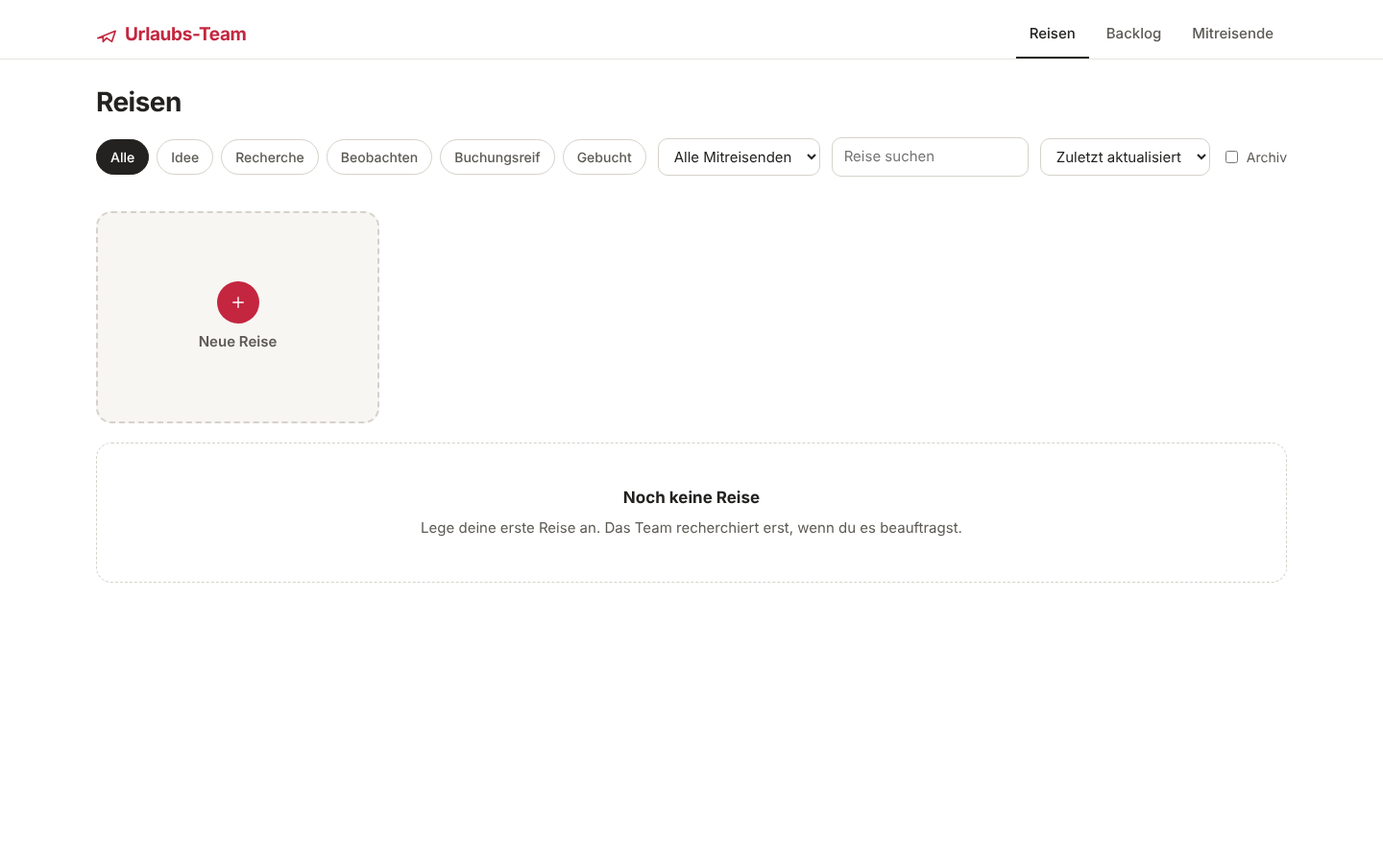
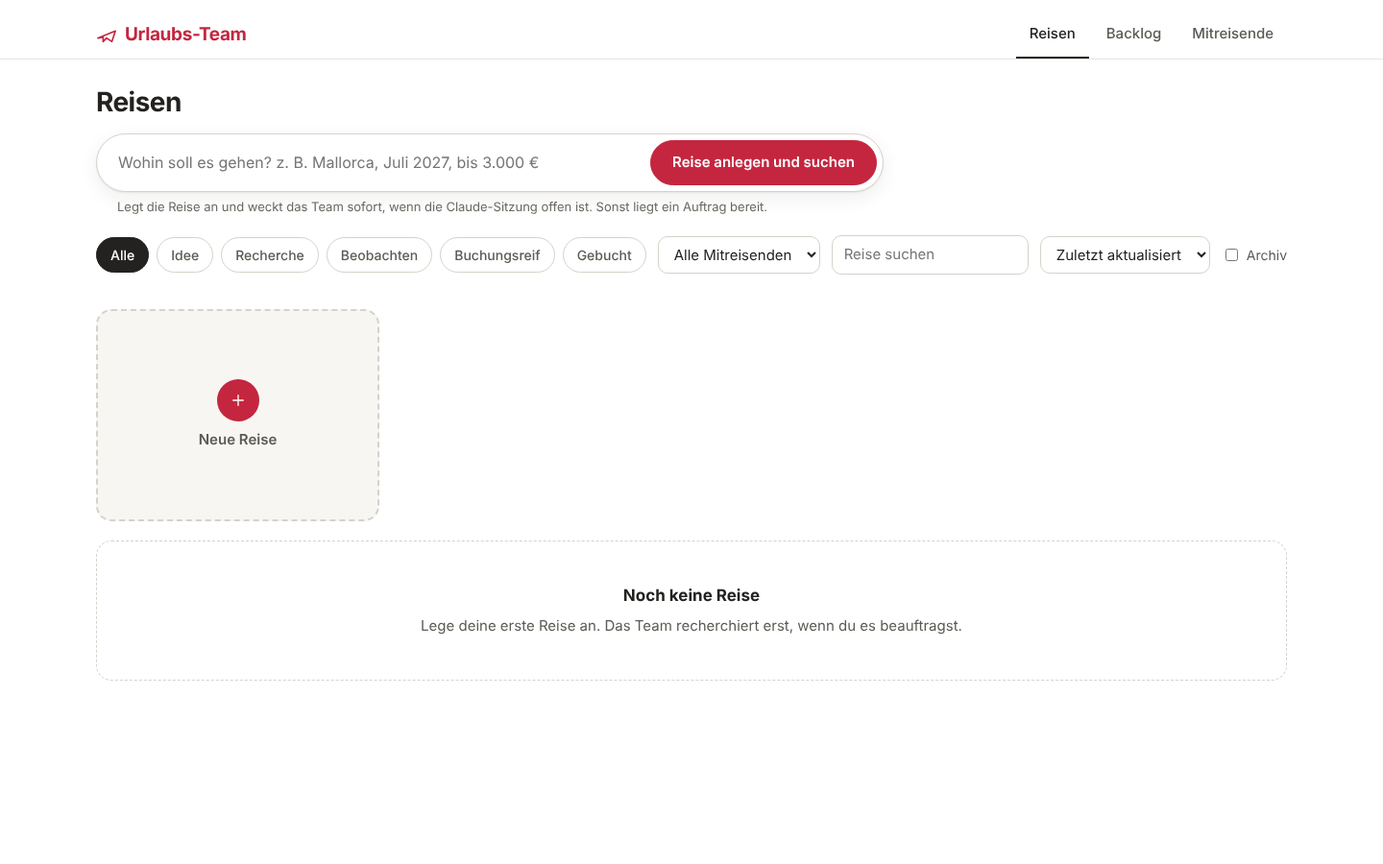
Suchleiste und Jetzt suchen: Reise anlegen, Auftrag ablegen, Claude per Kommentar wecken; Tests, Doku, Bericht
Claude-Session: https://claude.ai/code/session_01Pwzh8WGPLphNjk4CJM5VfV

diff --git a/app/urlaubs-team.html b/app/urlaubs-team.html
@@ -66,6 +66,14 @@ main { padding-top: 28px; }
 .field-s { padding: 8px 12px; border: 1px solid var(--line-2); border-radius: var(--r-s); background: var(--bg); min-width: 0; }
 .filters .grow { flex: 1 1 200px; }
 
+/* Suchleiste */
+.sbar { display: flex; align-items: center; gap: 8px; margin: 16px 0 4px; padding: 6px 6px 6px 22px; border: 1px solid var(--line-2); border-radius: 999px; background: var(--bg); box-shadow: var(--shadow); max-width: 820px; }
+.sbar:focus-within { border-color: var(--accent); }
+.sbar input { flex: 1; min-width: 0; border: 0; outline: none; background: none; font-size: 16px; padding: 10px 0; }
+.sbar .btn { border-radius: 999px; padding: 11px 22px; white-space: nowrap; }
+.sbar .short { display: none; }
+@media (max-width: 560px) { .sbar { padding-left: 16px; } .sbar .long { display: none; } .sbar .short { display: inline; } .sbar .btn { padding: 10px 16px; } }
+
 /* Kacheln */
 .grid { display: grid; grid-template-columns: repeat(auto-fill, minmax(min(100%, 270px), 1fr)); gap: 28px 20px; }
 .card { position: relative; display: flex; flex-direction: column; min-width: 0; border-radius: var(--r); background: var(--bg); text-align: left; padding: 0; border: 0; transition: transform .18s ease; }
@@ -292,7 +300,30 @@ async function savePlan(p, was) {
   }, 'Reiseplan speichern');
 }
 async function auftrag(art, text, tid) {
-  await guard(async () => { await db.collection('auftraege').add({ trip: tid || null, art, text: text || '', status: 'offen', datum: jetzt(), wer: S.who }); }, 'Auftrag ablegen');
+  const r = await guard(async () => { await db.collection('auftraege').add({ trip: tid || null, art, text: text || '', status: 'offen', datum: jetzt(), wer: S.who }); return true; }, 'Auftrag ablegen');
+  return r === true;
+}
+/* Weckt die Claude-Sitzung über einen Kommentar „an Claude“. Geht nur für Bearbeiter und solange eine Sitzung die App beobachtet. */
+async function wecke(text) {
+  try {
+    const cm = await claude.use('comments'); if (!cm) return false;
+    if ((await cm.canSendToClaude()) !== 'available') return false;
+    const anchor = await cm.anchorFor($('#main'));
+    await cm.sendToClaude({ anchor, text: String(text).slice(0, 900) }); return true;
+  } catch { return false; }
+}
+async function startSuche(tid, titel, text, art) {
+  const woke = wecke(`Jetzt suchen: „${titel}“ (Reise-ID ${tid}, Auftrag ${art || 'suche'}). ${text || ''}`);
+  const ok = await auftrag(art || 'suche', text, tid);
+  const w = await woke;
+  if (!ok) return;
+  toast(w ? 'Suche gestartet. Das Team legt die Ergebnisse in dieser Reise ab.' : 'Auftrag liegt bereit. Sag im Chat: „' + (art === 'optimieren' ? 'Optimiere ' : 'Suche für ') + titel + '“.');
+}
+function parseWunsch(text) {
+  const bm = text.match(/(\d{1,3}(?:[.\s]\d{3})+|\d+)\s*(?:€|eur\b|euro\b)/i);
+  const jahr = (text.match(/\b(20\d\d)\b/) || [])[1];
+  const ziel = text.split(/[,;]/)[0].trim().slice(0, 60);
+  return { ziel, titel: (ziel + (jahr && !ziel.includes(jahr) ? ' ' + jahr : '')).slice(0, 80), budget: bm ? Number(bm[1].replace(/[.\s]/g, '')) : null };
 }
 
 /* ---------- Rendern (Shell einmal, danach nur die dynamischen Bereiche) ---------- */
@@ -318,6 +349,7 @@ const VIEWS = {};
 VIEWS.reisen = {
   shell() {
     return `<div class="row"><h1>Reisen</h1><div class="sp"></div></div>
+    ${S.rw ? `<form id="sb" class="sbar" role="search"><input id="sb-t" data-live="1" type="text" autocomplete="off" placeholder="Wohin soll es gehen? z. B. Mallorca, Juli 2027, bis 3.000 €" aria-label="Reisewunsch eingeben und direkt suchen" maxlength="300"><button id="sb-go" class="btn primary" type="submit"><span class="long">Reise anlegen und suchen</span><span class="short">Suchen</span></button></form><p class="hint" style="margin:6px 0 0 22px">Legt die Reise an und weckt das Team sofort, wenn die Claude-Sitzung offen ist. Sonst liegt ein Auftrag bereit.</p>` : ''}
     <div class="filters">
       <div class="chips" id="f-status"></div>
       <select class="field-s" id="f-person" data-live="1" aria-label="Nach Mitreisenden filtern"></select>
@@ -346,7 +378,7 @@ function card(t) {
   const ziel = (t.ziel && t.ziel.text) || (t.ziel && t.ziel.modus === 'offen' ? 'Ziel offen' : '');
   const zr = t.zeitraum && t.zeitraum.fruehester_start ? `${dat(t.zeitraum.fruehester_start, true)} – ${dat(t.zeitraum.spaetester_rueckflug, true) || ''}` : 'Zeitraum offen';
   const preis = p.cur ? `<span class="price">ab ${eur(p.cur.preis_pp)} <small>p. P.${p.cur.preis_gesamt ? ' · ' + eur(p.cur.preis_gesamt) + ' gesamt' : ''}${p.cur.unsicher ? ' · Richtwert' : ''}</small></span><span class="row" style="gap:8px;flex-wrap:nowrap">${p.trend ? `<span class="trend ${p.trend}" title="seit letztem Check">${p.trend === 'down' ? '↓ ' + eur(Math.abs(p.diff)) : p.trend === 'up' ? '↑ ' + eur(p.diff) : '→ gleich'}</span>` : ''}${spark(p.series)}</span>` : '<span class="meta">Noch kein Preis</span>';
-  const menu = S.menu === t.id ? `<div class="menu" role="menu"><button data-act="open" data-id="${t.id}">Öffnen</button>${S.rw ? `<button data-act="optimieren" data-id="${t.id}">Optimieren</button><button data-act="dup" data-id="${t.id}">Duplizieren</button><button data-act="archiv" data-id="${t.id}">${t.archiviert ? 'Wiederherstellen' : 'Archivieren'}</button>` : ''}</div>` : '';
+  const menu = S.menu === t.id ? `<div class="menu" role="menu"><button data-act="open" data-id="${t.id}">Öffnen</button>${S.rw ? `<button data-act="suche" data-id="${t.id}">Jetzt suchen</button><button data-act="optimieren" data-id="${t.id}">Optimieren</button><button data-act="dup" data-id="${t.id}">Duplizieren</button><button data-act="archiv" data-id="${t.id}">${t.archiviert ? 'Wiederherstellen' : 'Archivieren'}</button>` : ''}</div>` : '';
   return `<div class="card"><div class="img" style="background:${GRADS[idx]}">${t.bild ? `<img src="${esc(t.bild)}" alt="">` : emoji}</div><span class="badge s-${esc(t.status)}">${esc(t.status)}</span><button class="kebab" data-act="menu" data-id="${t.id}" aria-label="Menü für ${esc(t.titel)}" aria-haspopup="true">${ico(I.dots)}</button>${menu}
   <button class="open-card" data-act="open" data-id="${t.id}"><div class="c-title">${esc(t.titel)}</div><div class="c-sub">${esc(ziel)}${ziel ? ' · ' : ''}${esc(zr)}</div>
   <div class="c-row">${avatars(t.mitreisende)}${preis}</div><div class="meta" style="margin-top:6px">${p.last ? 'Letzter Check ' + dat(p.last) : 'Noch kein Check'}</div></button></div>`;
@@ -363,7 +395,7 @@ const DETAIL = {
     <div class="hero"><div class="img" style="background:${GRADS[idx]}">${emoji}</div><div class="txt"><div class="row"><span class="status ${t.status === 'Beobachten' ? 'warn' : t.status === 'Buchungsreif' || t.status === 'Gebucht' ? 'ok' : t.status === 'Recherche' ? 'info' : ''}">${esc(t.status)}</span>${t.archiviert ? '<span class="status">Archiviert</span>' : ''}</div><h1>${esc(t.titel)}</h1>
     <div class="row">${avatars(t.mitreisende)}<span class="c-sub">${esc((t.ziel && t.ziel.text) || 'Ziel offen')} · ${t.zeitraum && t.zeitraum.fruehester_start ? dat(t.zeitraum.fruehester_start) + ' bis ' + dat(t.zeitraum.spaetester_rueckflug) : 'Zeitraum offen'}</span></div>
     ${p.cur ? `<div class="row"><span class="price">ab ${eur(p.cur.preis_pp)} <small>pro Person${p.cur.unsicher ? ' · Richtwert' : ''}</small></span>${p.trend ? `<span class="trend ${p.trend}">${p.trend === 'down' ? '↓' : p.trend === 'up' ? '↑' : '→'} ${eur(Math.abs(p.diff))}</span>` : ''}<span class="meta">Stand ${dat(p.last)}</span></div>` : ''}</div>
-    ${S.rw ? `<div class="row"><button class="btn primary" data-act="optimieren" data-id="${t.id}">Optimieren</button><button class="btn" data-act="edit" data-id="${t.id}">${ico(I.edit)}Bearbeiten</button></div>` : ''}</div>`;
+    ${S.rw ? `<div class="row"><button class="btn primary" data-act="suche" data-id="${t.id}">Jetzt suchen</button><button class="btn" data-act="optimieren" data-id="${t.id}">Optimieren</button><button class="btn" data-act="edit" data-id="${t.id}">${ico(I.edit)}Bearbeiten</button></div>` : ''}</div>`;
     $('#dtabs').innerHTML = TABS.map(([k, n]) => `<button role="tab" data-act="tab" data-v="${k}" aria-selected="${S.tab === k}">${n}${k === 'uebersicht' && S.vorschlaege.some((v) => v.trip === t.id && v.status === 'offen') ? ' <span class="status bad">' + S.vorschlaege.filter((v) => v.trip === t.id && v.status === 'offen').length + '</span>' : ''}</button>`).join('');
     TAB[S.tab].fill(t);
   },
@@ -393,7 +425,7 @@ TAB.uebersicht = {
     </div>${t.notizen ? `<div class="soft"><h3>Notizen</h3><p style="margin-top:6px;white-space:pre-wrap">${esc(t.notizen)}</p></div>` : ''}
     ${g.aktiv ? `<div class="box"><h3>Gruppenreise · Kosten</h3>${gruppe(t)}</div>` : ''}`;
     $('#u-people').innerHTML = `<div class="box"><h3>Mitreisende</h3>${leute.length ? leute.map((p) => `<div class="prop"><span class="av" style="margin:0;background:${AVCOL[hash(p.name) % AVCOL.length]}">${esc(initials(p.name))}</span><div class="pt"><b>${esc(p.name)}</b><span class="meta">${esc(p.beziehung)}${alter(p) != null ? ' · ' + alter(p) + ' J.' : ''}${p.dokument_gueltig_bis ? ' · Dokument bis ' + dat(p.dokument_gueltig_bis) : ''}</span>${p.dokument_gueltig_bis && z.spaetester_rueckflug && p.dokument_gueltig_bis < z.spaetester_rueckflug ? '<br><span class="status bad">Läuft vor der Rückreise ab</span>' : ''}</div></div>`).join('') : '<p class="meta" style="margin-top:6px">Noch niemand ausgewählt.</p>'}</div>`;
-    $('#u-opt').innerHTML = `${vs.length ? vs.map(vorschlag).join('') : '<p class="meta">Keine offenen Vorschläge. „Optimieren“ legt einen Auftrag ab, das Team prüft Alternativen und legt bis zu 3 Vorschläge hier ab.</p>'}${offen.length ? `<div class="status warn">${offen.length} Auftrag${offen.length > 1 ? 'e' : ''} wartet auf das Team</div>` : ''}`;
+    $('#u-opt').innerHTML = `${vs.length ? vs.map(vorschlag).join('') : '<p class="meta">Keine offenen Vorschläge. „Optimieren“ legt einen Auftrag ab, das Team prüft Alternativen und legt bis zu 3 Vorschläge hier ab.</p>'}${offen.length ? `<div class="stack" style="gap:6px">${offen.map((x) => `<div class="status warn">${({ suche: 'Suche', optimieren: 'Optimieren', plan: 'Plan-Entwurf', freitext: 'Wunsch', 'plan-freitext': 'Plan-Wunsch' }[x.art] || 'Auftrag')} angefragt ${new Date(x.datum).toLocaleString('de-DE', { dateStyle: 'short', timeStyle: 'short' })}, Ergebnis folgt hier</div>`).join('')}</div>` : ''}`;
   },
 };
 function gruppe(t) {
@@ -633,10 +665,11 @@ const A = {
   editp(el) { personForm(person(el.dataset.id)); },
   async dup(el) { const t = clone(trip(el.dataset.id)); delete t.id; t.titel += ' (Kopie)'; t.status = 'Idee'; delete t.erstellt; const id = db.collection('trips').doc().id; S.menu = null; await guard(async () => { await writeTrip(id, t, 'Dupliziert von ' + trip(el.dataset.id).titel); toast('Dupliziert'); }, 'Duplizieren'); },
   async archiv(el) { const t = clone(trip(el.dataset.id)); t.archiviert = !t.archiviert; S.menu = null; await guard(async () => { await writeTrip(t.id, t, t.archiviert ? 'Archiviert' : 'Wiederhergestellt'); toast(t.archiviert ? 'Archiviert' : 'Wiederhergestellt'); }, 'Archivieren'); },
+  async suche(el) { const t = trip(el.dataset.id); S.menu = null; if (!t) return; el.disabled = true; await startSuche(t.id, t.titel, t.suchwunsch || ''); el.disabled = false; },
   optimieren(el) {
     const t = trip(el.dataset.id); S.menu = null; render();
-    modal('Optimieren: ' + t.titel, `<p>Das Team prüft Angebote neu und sucht Alternativen: anderer Zeitraum (± ${(t.zeitraum || {}).flex_tage || 0} Tage), anderer Flughafen, ähnliche Unterkunft, Nachbarort. Du bekommst höchstens 3 Vorschläge. Nichts ändert sich ohne dein Okay.</p><label class="f">Optionaler Wunsch<textarea name="w" placeholder="z. B. günstiger, weniger Fahrtzeit, mehr Ruhe für Matteo"></textarea></label><p class="hint">Die App kann das Team nicht selbst starten. Nach dem Ablegen sagst du im Chat: „Optimiere ${esc(t.titel)}“.</p>`,
-    async (fd) => { await auftrag('optimieren', fd.get('w'), t.id); toast('Auftrag liegt bereit. Sag im Chat: „Optimiere ' + t.titel + '“'); return true; }, 'Auftrag ablegen');
+    modal('Optimieren: ' + t.titel, `<p>Das Team prüft Angebote neu und sucht Alternativen: anderer Zeitraum (± ${(t.zeitraum || {}).flex_tage || 0} Tage), anderer Flughafen, ähnliche Unterkunft, Nachbarort. Du bekommst höchstens 3 Vorschläge. Nichts ändert sich ohne dein Okay.</p><label class="f">Optionaler Wunsch<textarea name="w" placeholder="z. B. günstiger, weniger Fahrtzeit, mehr Ruhe für Matteo"></textarea></label><p class="hint">Ist die Claude-Sitzung offen, startet das Team sofort. Sonst sagst du im Chat: „Optimiere ${esc(t.titel)}“.</p>`,
+    async (fd) => { await startSuche(t.id, t.titel, fd.get('w'), 'optimieren'); return true; }, 'Optimieren starten');
   },
   async vs(el) {
     const v = S.vorschlaege.find((x) => x.id === el.dataset.id); const st = el.dataset.v;
@@ -745,7 +778,17 @@ document.addEventListener('input', (e) => {
 });
 document.addEventListener('submit', async (e) => {
   const f = e.target;
-  if (f.id === 'qa') {
+  if (f.id === 'sb') {
+    e.preventDefault(); const inp = $('#sb-t'), v = inp.value.trim();
+    if (!v) { toast('Schreib kurz, wohin es gehen soll.'); return; }
+    const btn = $('#sb-go'); btn.disabled = true;
+    const w = parseWunsch(v), id = db.collection('trips').doc().id, fam = ['p_martin', 'p_kristina', 'p_matteo'].filter((x) => person(x));
+    const next = { ...blankTrip(), titel: w.titel, status: 'Recherche', ziel: { modus: 'konkret', text: w.ziel }, budget: { gesamt: w.budget, pro_person_max: null }, mitreisende: fam, notizen: 'Suchwunsch: ' + v, suchwunsch: v };
+    const woke = wecke(`Jetzt suchen: „${w.titel}“ (Reise-ID ${id}, Auftrag suche). Wunsch: ${v}`);
+    const r = await guard(() => writeTrip(id, next, 'Per Suchleiste angelegt'), 'Reise anlegen');
+    if (r !== null) { const ok = await auftrag('suche', v, id); const sent = await woke; inp.value = ''; inp.blur(); openTrip(id); if (ok) toast(sent ? 'Reise angelegt, Suche gestartet. Ergebnisse erscheinen in dieser Reise.' : 'Reise angelegt. Auftrag liegt bereit. Sag im Chat: „Suche für ' + w.titel + '“.'); }
+    btn.disabled = false;
+  } else if (f.id === 'qa') {
     e.preventDefault(); const inp = $('#qa-t'), v = inp.value.trim(); if (!v) return;
     const isUrl = /^https?:\/\//i.test(v); let titel = v, url = '';
     if (isUrl) { url = v.split(/\s+/)[0]; try { const u = new URL(url); titel = u.hostname.replace(/^www\./, '') + (u.pathname.length > 1 ? u.pathname.slice(0, 40) : ''); } catch { /* Titel bleibt */ } }

diff --git a/qa/harness/fake_claude.js b/qa/harness/fake_claude.js
@@ -31,7 +31,8 @@
   };
   const downloads = { saved: [], save: async (r) => { downloads.saved.push({ filename: r.filename, data: r.data instanceof Uint8Array ? Array.from(r.data) : r.data }); return { status: 'saved' }; } };
   const user = { isOwner: async () => true, canEdit: async () => true, can: async () => (window.__QA_RO__ ? false : true), me: async () => ({ id: 'u_test', name: 'Tester' }), id: async () => 'u_test' };
-  const caps = { db, user, downloads };
+  const comments = { canSendToClaude: async () => (window.__QA_NOSESSION__ ? 'no_session' : 'available'), anchorFor: async () => ({ fake: true }), sendToClaude: async (t) => { (window.__sent = window.__sent || []).push(t); return { threadId: 'th1', commentId: 'c1' }; } };
+  const caps = { db, user, downloads, comments };
   window.__db = db; window.__downloads = downloads;
   window.claude = { use: async (n) => (n === 'db' && window.__QA_NODB__ ? null : caps[n] || null) };
 })();

diff --git a/qa/harness/test_app.py b/qa/harness/test_app.py
@@ -344,6 +344,42 @@ def main():
         ok('A-099', pg.eval_on_selector_all('#b-list .prop', 'e=>e.length') == 1, 'Backlog-Suche filtert')
         ctx.close()
 
+        # ---------- Suchleiste und „Jetzt suchen“ ----------
+        ctx, pg = new_page(b, seed=TRAV)
+        ok('A-136', pg.query_selector('#sb-t') is not None and 'bis 3.000' in pg.get_attribute('#sb-t', 'placeholder'), 'Startseite hat die Suchleiste mit Beispiel im Platzhalter')
+        pg.click('#sb-go'); pg.wait_for_timeout(200)
+        ok('A-136', 'Schreib kurz' in toast(pg) and not docs(pg, 'trips'), 'Leere Eingabe legt nichts an und erklärt, was zu tun ist')
+        pg.fill('#sb-t', 'Mallorca, 2 Erw. + 1 Kind, Juli 2027, bis 3.000 €'); pg.press('#sb-t', 'Enter'); pg.wait_for_selector('#dtabs'); pg.wait_for_timeout(400)
+        msg0 = toast(pg); tt = docs(pg, 'trips'); tid2, t2 = next(iter(tt.items())) if tt else (None, {})
+        ok(['A-136', 'A-137'], len(tt) == 1 and t2['titel'] == 'Mallorca 2027' and t2['budget']['gesamt'] == 3000 and t2['status'] == 'Recherche' and t2['ziel']['text'] == 'Mallorca' and 'p_matteo' in t2['mitreisende'], 'Suchleiste legt Reise an: Titel „%s“, Budget %s, Status %s' % (t2.get('titel'), t2.get('budget', {}).get('gesamt'), t2.get('status')))
+        ok('A-137', any(a['art'] == 'suche' and a['trip'] == tid2 and a['status'] == 'offen' and 'Mallorca' in a['text'] for a in docs(pg, 'auftraege').values()), 'Suchauftrag liegt mit Reise-ID und Wunschtext vor')
+        sent = pg.evaluate('window.__sent || []')
+        ok('A-137', len(sent) == 1 and 'Jetzt suchen' in sent[0]['text'] and tid2 in sent[0]['text'], 'Claude wird per Kommentar geweckt: „%s“' % (sent[0]['text'][:90] if sent else ''))
+        ok('A-137', 'Suche gestartet' in msg0, 'Rückmeldung an Martin: „%s“' % msg0)
+        ok('A-137', 'Suche angefragt' in pg.inner_text('#u-opt'), 'Übersicht zeigt „Suche angefragt“ mit Uhrzeit')
+        # Jetzt suchen im Detail
+        pg.click('#dhead [data-act=suche]'); pg.wait_for_timeout(400)
+        ok('A-137', len(pg.evaluate('window.__sent')) == 2 and sum(1 for a in docs(pg, 'auftraege').values() if a['art'] == 'suche') == 2, '„Jetzt suchen“ im Detail legt Auftrag an und weckt Claude')
+        # Optimieren weckt ebenfalls
+        pg.click('#dhead [data-act=optimieren]'); pg.wait_for_selector('#mf'); submit(pg); pg.wait_for_timeout(300)
+        ok('A-137', len(pg.evaluate('window.__sent')) == 3, 'Optimieren weckt Claude ebenfalls')
+        # Kachelmenü
+        pg.click('[data-act=nav][data-v=reisen]'); pg.wait_for_selector('#grid .card'); pg.click('[data-act=menu][data-id="%s"]' % tid2); pg.click('.menu button:has-text("Jetzt suchen")'); pg.wait_for_timeout(400)
+        ok('A-137', len(pg.evaluate('window.__sent')) == 4, '„Jetzt suchen“ im Kachelmenü weckt Claude')
+        # XSS im Suchtext
+        pg.fill('#sb-t', '<img src=x onerror="window.__xss9=1"> Rom'); pg.press('#sb-t', 'Enter'); pg.wait_for_selector('#dtabs'); pg.wait_for_timeout(400)
+        ok(['A-126', 'A-137'], pg.evaluate('window.__xss9') is None, 'Suchtext mit HTML wird nicht ausgeführt')
+        ctx.close()
+        # Ohne offene Sitzung: Rückfall auf Auftrag
+        ctx, pg = new_page(b, init='window.__QA_NOSESSION__=true', seed=TRAV)
+        pg.fill('#sb-t', 'Rom 2027, Städtetrip'); pg.press('#sb-t', 'Enter'); pg.wait_for_selector('#dtabs'); pg.wait_for_timeout(300)
+        ok('A-137', 'Sag im Chat' in toast(pg) and not pg.evaluate('window.__sent') and any(a['art'] == 'suche' for a in docs(pg, 'auftraege').values()) and len(docs(pg, 'trips')) == 1, 'Ohne Sitzung: Reise und Auftrag angelegt, Hinweis „Sag im Chat“, kein Absturz (Toast: „%s“)' % toast(pg))
+        ctx.close()
+        # Nur lesen: keine Suchleiste
+        ctx, pg = new_page(b, init='window.__QA_RO__=true', seed=TRAV)
+        ok('A-137', pg.query_selector('#sb') is None, 'Nur-Lesen-Konto sieht keine Suchleiste')
+        ctx.close()
+
         # ---------- Mitreisende ----------
         ctx, pg = new_page(b, seed=TRAV)
         pg.click('[data-act=nav][data-v=leute]'); pg.wait_for_selector('#l-body .box')
@@ -403,7 +439,7 @@ def main():
         # Kachelmenü
         pg.click('[data-act=menu][data-id=tb]'); pg.wait_for_timeout(150)
         items = pg.eval_on_selector_all('.menu button', 'e=>e.map(x=>x.innerText)')
-        ok(['A-032', 'A-033', 'A-034', 'A-035'], items == ['Öffnen', 'Optimieren', 'Duplizieren', 'Archivieren'], 'Kachelmenü: %s' % items)
+        ok(['A-032', 'A-033', 'A-034', 'A-035'], items == ['Öffnen', 'Jetzt suchen', 'Optimieren', 'Duplizieren', 'Archivieren'], 'Kachelmenü: %s' % items)
         pg.screenshot(path=os.path.join(SHOTS, '08-kachelmenue.png'))
         pg.click('.menu button:has-text("Optimieren")'); pg.wait_for_selector('#mf'); submit(pg); pg.wait_for_timeout(200)
         ok('A-033', any(a['trip'] == 'tb' and a['art'] == 'optimieren' for a in docs(pg, 'auftraege').values()), 'Optimieren aus dem Kachelmenü legt Auftrag an')

diff --git a/qa/bericht.py b/qa/bericht.py
@@ -23,6 +23,7 @@ M = {
  'A-085': ('Teilweise', 'Browser-Test: „Tag 3 ruhiger“ legt Auftrag ab', 'Umsetzung durch das Team auf Zuruf nicht gesondert getestet.'),
  'A-087': ('Teilweise', 'Browser-Test: Hinweis mit Quelle wird angezeigt; Test-Plan: „noch nicht geprüft“', 'Keine konkreten Ziele gewählt, daher keine Öffnungszeiten.'),
  'A-089': ('Erfüllt', 'Browser-Test: Dokument-Checkliste mit Quelle Auswärtiges Amt', 'Inhalt der Quelle konnte nicht gelesen werden, siehe A-127.'),
+ 'A-137': ('Teilweise', 'Browser-Test mit Attrappe: Auftrag, Kommentar an Claude, Rückfall ohne Sitzung, 9 Prüfungen bestanden', 'Das echte Wecken per `sendToClaude` ist nur im Live-Viewer prüfbar und setzt Bearbeiter-Rechte und eine offene Claude-Sitzung voraus. O-10.'),
  'A-098': ('Teilweise', 'Browser-Test: Titel nur aus der URL, keine Kurzbeschreibung', 'Die App darf keine Fremdseiten abrufen. Kurzfassung auf Zuruf durch das Team. O-1.'),
  'A-100': ('Teilweise', 'Kopie mit Testdaten: 10 Einträge in `BACKLOG.md` = 10 in `backlog.json`', 'Spiegel läuft nur auf Zuruf, nicht automatisch bei jeder Änderung. O-2.'),
  'A-101': ('Erfüllt', '`BACKLOG.md`: gruppiert nach Reise, dann Status', ''),
@@ -80,6 +81,7 @@ L = ['# QA-Bericht Urlaubs-Team', '', 'Stand 18.10.2026. Geprüft gegen `urlaubs
  '| M-07 | P3 | A-131: Kontrast im Hellmodus unter 4,5:1 bei Hilfstext auf weicher Fläche (4,36) und Akzent auf Akzentfläche (4,11). Farben angepasst. | ja (Schleife 2) | berechnet, alle Paare ≥ 4,5 |',
  '| M-08 | P3 | Kachel „Neue Reise“ war auf dem Handy riesig, Mini-Kurve hing lose neben dem Trend. | ja (Schleife 2) | Screenshot geprüft |',
  '| M-09 | P3 | Links mit Status „nicht abrufbar“ wurden als „geprüft“ angezeigt. | ja (Schleife 3) | bestanden |',
+ '| M-11 | P2 | A-136: Nach dem Absenden der Suchleiste öffnete sich die Reise nicht, weil der Cursor in der Eingabe blieb und die Ansicht zurückgehalten wurde. Von den neuen Tests gefunden, behoben. | ja (Schleife 3) | bestanden |',
  '| M-10 | P3 | A-104: Tote Links konnten nicht markiert werden. Feld `link_status` mit Anzeige ergänzt. | ja (Schleife 3) | bestanden |', '',
  'Mehrere Fehlschläge im ersten Lauf lagen am Test selbst (Großschreibung in Tabellenköpfen, falsche Erwartung bei der Preissortierung, Neuladen löschte die Attrappe). Sie sind korrigiert und zählen nicht als Mängel der App.', '',
  '## Offene Punkte mit Lösungsvorschlag', '', '| Nr. | Punkt | Lösungsvorschlag | Aufwand |', '|---|---|---|---|',
@@ -91,6 +93,7 @@ L = ['# QA-Bericht Urlaubs-Team', '', 'Stand 18.10.2026. Geprüft gegen `urlaubs
  '| O-6 | A-026: Kein Upload eigener Bilder. | `assets`-Fähigkeit mit Upload-Button an der Reise. | klein bis mittel |',
  '| O-7 | A-110, A-117: Kein wiederkehrender Check, bewusst. | Nur falls gewünscht: geplante Cloud-Aufgabe zweimal pro Woche. | klein |',
  '| O-8 | Echte Reise „Sommer“ (Feb 2027, Strand, Gruppenreise ohne Haushalte) hat einen offenen Optimieren-Auftrag vom 18.10. 14:40. | Auf Zuruf bearbeiten. | klein |',
+ '| O-10 | A-137: „Jetzt suchen“ weckt Claude nur, wenn die Sitzung offen ist und Martin Bearbeiter ist. | Ohne Sitzung bleibt der Auftrag liegen, die App sagt das. Dauerhaft direkt nur mit eigener Cloud-Aufgabe, die auf Aufträge reagiert. | klein bis mittel |',
  '| O-9 | Veröffentlichte App nicht im echten Viewer getestet. | 10-Minuten-Klicktest laut `qa/regressionstests.md`. | klein, Martin |', '',
  '## Meine Entscheidungen (Fragen an Martin)', '',
  '1. Darf ich die `[TEST]`-Daten jetzt löschen (Reise, 3 Personen, Plan, Backlog, Preise, Digest, Vorschläge)?',

diff --git a/qa/anforderungen.py b/qa/anforderungen.py
@@ -156,6 +156,10 @@ A = {
   ("Ungültige Eingaben führen zu Fehlermeldungen, nicht zu Abstürzen oder Dateizugriff außerhalb des Projekts.", "Prüfprompt"),
   ("Airbnb-Anmutung: Weißraum, abgerundete Ecken, ruhige Typografie, konsistente Abstände.", "Prüfprompt"),
  ],
+ "10 Suchleiste und direktes Suchen (Wunsch Martin 18.10.)": [
+  ("Die Startseite hat eine Eingabeleiste für einen freien Reisewunsch; sie legt die Reise an.", "Wunsch Martin"),
+  ("„Jetzt suchen“ (Suchleiste, Detail, Kachelmenü, Optimieren) legt einen Auftrag an und weckt Claude sofort, sonst Rückfall auf den Auftrag mit Hinweis.", "Wunsch Martin"),
+ ],
 }
 out, js, n = ["# Anforderungsliste Urlaubs-Team", "", "Quelle: `urlaubs-team-prompt.md`, Prüfprompt und Entscheidungen von Martin. Eine Anforderung = ein überprüfbarer Satz.", ""], [], 0
 counts = []

diff --git a/qa/QA-BERICHT.md b/qa/QA-BERICHT.md
@@ -10,9 +10,9 @@ Hinweis zur Unabhängigkeit: Der Prüfer ist dasselbe Modell, das die App gebaut
 
 | Anforderungen gesamt | Erfüllt | Teilweise | Fehlt | Nicht prüfbar |
 |---|---|---|---|---|
-| 135 | 119 | 14 | 0 | 2 |
+| 137 | 120 | 15 | 0 | 2 |
 
-Browser-Tests: 137 Prüfungen, 136 bestanden, 1 durchgefallen (die eine offene ist A-098, Grenze der Plattform). Konsolenfehler: keine.
+Browser-Tests: 150 Prüfungen, 149 bestanden, 1 durchgefallen (die eine offene ist A-098, Grenze der Plattform). Konsolenfehler: keine.
 
 ## Was geprüft wurde und wie
 
@@ -34,6 +34,7 @@ Browser-Tests: 137 Prüfungen, 136 bestanden, 1 durchgefallen (die eine offene i
 | M-07 | P3 | A-131: Kontrast im Hellmodus unter 4,5:1 bei Hilfstext auf weicher Fläche (4,36) und Akzent auf Akzentfläche (4,11). Farben angepasst. | ja (Schleife 2) | berechnet, alle Paare ≥ 4,5 |
 | M-08 | P3 | Kachel „Neue Reise“ war auf dem Handy riesig, Mini-Kurve hing lose neben dem Trend. | ja (Schleife 2) | Screenshot geprüft |
 | M-09 | P3 | Links mit Status „nicht abrufbar“ wurden als „geprüft“ angezeigt. | ja (Schleife 3) | bestanden |
+| M-11 | P2 | A-136: Nach dem Absenden der Suchleiste öffnete sich die Reise nicht, weil der Cursor in der Eingabe blieb und die Ansicht zurückgehalten wurde. Von den neuen Tests gefunden, behoben. | ja (Schleife 3) | bestanden |
 | M-10 | P3 | A-104: Tote Links konnten nicht markiert werden. Feld `link_status` mit Anzeige ergänzt. | ja (Schleife 3) | bestanden |
 
 Mehrere Fehlschläge im ersten Lauf lagen am Test selbst (Großschreibung in Tabellenköpfen, falsche Erwartung bei der Preissortierung, Neuladen löschte die Attrappe). Sie sind korrigiert und zählen nicht als Mängel der App.
@@ -50,6 +51,7 @@ Mehrere Fehlschläge im ersten Lauf lagen am Test selbst (Großschreibung in Tab
 | O-6 | A-026: Kein Upload eigener Bilder. | `assets`-Fähigkeit mit Upload-Button an der Reise. | klein bis mittel |
 | O-7 | A-110, A-117: Kein wiederkehrender Check, bewusst. | Nur falls gewünscht: geplante Cloud-Aufgabe zweimal pro Woche. | klein |
 | O-8 | Echte Reise „Sommer“ (Feb 2027, Strand, Gruppenreise ohne Haushalte) hat einen offenen Optimieren-Auftrag vom 18.10. 14:40. | Auf Zuruf bearbeiten. | klein |
+| O-10 | A-137: „Jetzt suchen“ weckt Claude nur, wenn die Sitzung offen ist und Martin Bearbeiter ist. | Ohne Sitzung bleibt der Auftrag liegen, die App sagt das. Dauerhaft direkt nur mit eigener Cloud-Aufgabe, die auf Aufträge reagiert. | klein bis mittel |
 | O-9 | Veröffentlichte App nicht im echten Viewer getestet. | 10-Minuten-Klicktest laut `qa/regressionstests.md`. | klein, Martin |
 
 ## Meine Entscheidungen (Fragen an Martin)
@@ -99,10 +101,10 @@ Du machst den 10-Minuten-Klicktest im Live-Link, beantwortest die Fragen 1 bis 5
 | A-029 | Suche. | Erfüllt | Browser-Test: Suche „rom“ → 1 Kachel |  |
 | A-030 | Sortierung nach Datum, Preis und zuletzt aktualisiert. | Erfüllt | Browser-Test: Sortierung nach Preis: ['[TEST] Städtetrip Rom', '[TEST] Sommer 2027', '[TEST] Skiurlaub'] (+2 weitere) |  |
 | A-031 | Die erste Kachel ist „+ Neue Reise“ und öffnet die Eingabemaske. | Erfüllt | Browser-Test: Kachel „+ Neue Reise“ ist die erste Kachel (+1 weitere) |  |
-| A-032 | Kachelmenü: Öffnen. | Erfüllt | Browser-Test: Kachelmenü: ['Öffnen', 'Optimieren', 'Duplizieren', 'Archivieren'] |  |
-| A-033 | Kachelmenü: Optimieren. | Erfüllt | Browser-Test: Kachelmenü: ['Öffnen', 'Optimieren', 'Duplizieren', 'Archivieren'] (+1 weitere) |  |
-| A-034 | Kachelmenü: Duplizieren. | Erfüllt | Browser-Test: Kachelmenü: ['Öffnen', 'Optimieren', 'Duplizieren', 'Archivieren'] (+1 weitere) |  |
-| A-035 | Kachelmenü: Archivieren (und Wiederherstellen). | Erfüllt | Browser-Test: Kachelmenü: ['Öffnen', 'Optimieren', 'Duplizieren', 'Archivieren'] (+3 weitere) |  |
+| A-032 | Kachelmenü: Öffnen. | Erfüllt | Browser-Test: Kachelmenü: ['Öffnen', 'Jetzt suchen', 'Optimieren', 'Duplizieren', 'Archivieren'] |  |
+| A-033 | Kachelmenü: Optimieren. | Erfüllt | Browser-Test: Kachelmenü: ['Öffnen', 'Jetzt suchen', 'Optimieren', 'Duplizieren', 'Archivieren'] (+1 weitere) |  |
+| A-034 | Kachelmenü: Duplizieren. | Erfüllt | Browser-Test: Kachelmenü: ['Öffnen', 'Jetzt suchen', 'Optimieren', 'Duplizieren', 'Archivieren'] (+1 weitere) |  |
+| A-035 | Kachelmenü: Archivieren (und Wiederherstellen). | Erfüllt | Browser-Test: Kachelmenü: ['Öffnen', 'Jetzt suchen', 'Optimieren', 'Duplizieren', 'Archivieren'] (+3 weitere) |  |
 | A-036 | Detailansicht mit den Tabs Übersicht, Angebote, Reiseplan, Backlog, Verlauf. | Erfüllt | Browser-Test: Detail-Tabs: ['Übersicht', 'Angebote', 'Reiseplan', 'Backlog', 'Verlauf'] |  |
 | A-037 | Preisverlauf als kleine Kurve in der Kachel. | Erfüllt | Browser-Test: Preisverlauf-Kurve in der Kachel |  |
 | A-038 | Preisverlauf als Kurve im Tab „Angebote“. | Erfüllt | Browser-Test: Preisverlauf-Kurve im Tab Angebote |  |
@@ -203,3 +205,5 @@ Du machst den 10-Minuten-Klicktest im Live-Link, beantwortest die Fragen 1 bis 5
 | A-133 | Keine Zugangsdaten oder API-Schlüssel im Repo, `.gitignore` korrekt. | Erfüllt | Suche nach Schlüsseln, Passwörtern, IBAN; `.gitignore` mit `.env`, `*.pem`, `*.key`; keine solchen Dateien getrackt |  |
 | A-134 | Ungültige Eingaben führen zu Fehlermeldungen, nicht zu Abstürzen oder Dateizugriff außerhalb des Projekts. | Erfüllt | Browser-Test: Nur-Lesen: keine Schreib-Bedienelemente (+4 weitere) |  |
 | A-135 | Airbnb-Anmutung: Weißraum, abgerundete Ecken, ruhige Typografie, konsistente Abstände. | Erfüllt | Browser-Test: Abgerundete Bildfläche 4:3 mit 16px Radius |  |
+| A-136 | Die Startseite hat eine Eingabeleiste für einen freien Reisewunsch; sie legt die Reise an. | Erfüllt | Browser-Test: Startseite hat die Suchleiste mit Beispiel im Platzhalter (+2 weitere) |  |
+| A-137 | „Jetzt suchen“ (Suchleiste, Detail, Kachelmenü, Optimieren) legt einen Auftrag an und weckt Claude sofort, sonst Rückfall auf den Auftrag mit Hinweis. | Teilweise | Browser-Test mit Attrappe: Auftrag, Kommentar an Claude, Rückfall ohne Sitzung, 9 Prüfungen bestanden | Das echte Wecken per `sendToClaude` ist nur im Live-Viewer prüfbar und setzt Bearbeiter-Rechte und eine offene Claude-Sitzung voraus. O-10. |

diff --git a/CLAUDE.md b/CLAUDE.md
@@ -12,7 +12,8 @@ Lies bei jedem Start diese Datei und `BACKLOG.md`.
 
 ## Arbeitsweise
 - **Das Team sucht nur auf Zuruf.** Keine eigenständigen Checks, keine geplanten Aufgaben ohne Anweisung. Ausnahme gibt es nicht.
-- Die App kann das Team nicht starten. Sie legt Aufträge in `auftraege` ab (art: optimieren, freitext, plan, plan-freitext, backlog). Bei „Optimiere <Reise>“ oder „Arbeite die Aufträge ab“: offene Aufträge lesen, bearbeiten, auf `erledigt` setzen.
+- Die App legt Aufträge in `auftraege` ab (art: `suche`, `optimieren`, `freitext`, plan, plan-freitext, backlog). Bei „Optimiere <Reise>“, „Suche für <Reise>“ oder „Arbeite die Aufträge ab“: offene Aufträge lesen, bearbeiten, auf `erledigt` setzen.
+- **Jetzt suchen:** Die Suchleiste auf der Startseite legt eine Reise an (Status Recherche, `suchwunsch` = Text, Budget aus „… €“) und beauftragt die Suche. „Jetzt suchen“ (Detail, Kachelmenü) und „Optimieren“ legen ebenfalls einen Auftrag an und senden zusätzlich einen Kommentar an Claude (`sendToClaude`). Kommt ein Turn „[Artifact comment sent to Claude]“ mit „Jetzt suchen: … (Reise-ID …)“: das ist Martins Zuruf. Dann: offene Aufträge dieser Reise lesen, mit WebSearch suchen, Preise, Digest und Vorschläge nach den Regeln unten ablegen, Auftrag auf `erledigt`, kurz im Kommentar-Thread antworten (ArtifactComments). Ohne offene Sitzung bleibt es beim Auftrag: Martin sagt dann im Chat „Suche für <Reise>“.
 - Optimieren: höchstens 3 Vorschläge als Dokumente in `vorschlaege` (trip, titel, effekt, begruendung, quelle, stand, status `offen`, optional `aenderung` als Feldwerte der Reise). Nichts an der Reise ändern, bevor Martin in der App annimmt.
 - Änderungen an Reisen immer mit Versionseintrag in `trips/<id>/versions` (wer: „Team (Claude)“, was, vorher, nachher).
 - Backlog: neue Links mit WebFetch prüfen, in zwei Sätzen in `zusammenfassung` zusammenfassen, Preis und Verfügbarkeit notieren, tote Links markieren. Impulse (3 pro Monat auf Zuruf) als Einträge mit `impuls: true` anlegen.

diff --git a/qa/regressionstests.md b/qa/regressionstests.md
@@ -18,7 +18,8 @@ Voraussetzung: `pip install playwright pypdf`, Chromium vorhanden. Erwartet: all
 2. `python3 scripts/spiegel.py <Exportordner>`, dann `python3 qa/check_daten.py`. Erwartet: „Keine Fehler.“
 
 ## 3. Klicktest im Live-Link (von Hand, im echten Viewer)
-1. Startseite lädt, erste Kachel ist „Neue Reise“, Kacheln zeigen Preis und Trendpfeil.
+1. Startseite lädt, Suchleiste oben, erste Kachel ist „Neue Reise“, Kacheln zeigen Preis und Trendpfeil.
+1a. Suchleiste: „Rom, Mai 2027, bis 2.000 €“ eingeben. Reise „Rom 2027“ öffnet sich, Meldung „Suche gestartet“. In der Claude-Sitzung kommt ein Kommentar „Jetzt suchen: …“ an (nur im echten Viewer prüfbar, setzt Bearbeiter-Rechte und offene Sitzung voraus).
 2. Neue Reise anlegen: Rückreise vor Hinreise, Datum in der Vergangenheit und Kind ohne Alter werden mit Meldung abgelehnt.
 3. Kachelmenü: Optimieren, Duplizieren, Archivieren, Wiederherstellen.
 4. Detail → Übersicht: „Optimieren“ legt einen Auftrag ab. Danach im Chat „Optimiere <Reise>“, Vorschläge erscheinen, Annehmen ändert die Reise, Verlauf → Rückgängig stellt sie wieder her.

diff --git a/qa/anforderungen.md b/qa/anforderungen.md
@@ -187,6 +187,13 @@ Quelle: `urlaubs-team-prompt.md`, Prüfprompt und Entscheidungen von Martin. Ein
 | A-134 | Ungültige Eingaben führen zu Fehlermeldungen, nicht zu Abstürzen oder Dateizugriff außerhalb des Projekts. | Prüfprompt |
 | A-135 | Airbnb-Anmutung: Weißraum, abgerundete Ecken, ruhige Typografie, konsistente Abstände. | Prüfprompt |
 
+## 10 Suchleiste und direktes Suchen (Wunsch Martin 18.10.)
+
+| ID | Anforderung | Quelle |
+|---|---|---|
+| A-136 | Die Startseite hat eine Eingabeleiste für einen freien Reisewunsch; sie legt die Reise an. | Wunsch Martin |
+| A-137 | „Jetzt suchen“ (Suchleiste, Detail, Kachelmenü, Optimieren) legt einen Auftrag an und weckt Claude sofort, sonst Rückfall auf den Auftrag mit Hinweis. | Wunsch Martin |
+
 ## Anzahl je Bereich
 
 | Bereich | Anforderungen |
@@ -201,4 +208,5 @@ Quelle: `urlaubs-team-prompt.md`, Prüfprompt und Entscheidungen von Martin. Ein
 | 7 Angebots-Check | 10 |
 | 8 Team und Regeln | 9 |
 | 9 Qualität (Prüfprompt) | 8 |
-| **Gesamt** | **135** |
+| 10 Suchleiste und direktes Suchen (Wunsch Martin 18.10.) | 2 |
+| **Gesamt** | **137** |

diff --git a/README.md b/README.md
@@ -8,6 +8,9 @@ Online-App für Reisen als Kacheln, mit Eingabemaske, Angebote, Reiseplan und Ba
 - **Mitreisende:** wiederverwendbare Personenliste.
 - **Backlog:** Links, Ideen und Fundstücke einwerfen, global oder je Reise.
 
+## Direkt suchen
+Oben auf der Startseite steht die Suchleiste: Reisewunsch eintippen (z. B. „Mallorca, Juli 2027, bis 3.000 €“) und „Reise anlegen und suchen“ drücken. Dasselbe geht mit „Jetzt suchen“ an jeder Reise. Die App legt einen Auftrag ab und weckt Claude, solange die Claude-Sitzung offen ist. Sonst sagst du im Chat: „Suche für <Reise>“.
+
 ## Das Team arbeitet nur auf Zuruf
 Die App legt Aufträge ab, zum Beispiel über „Optimieren“. Im Chat mit Claude Code sagst du dann: „Optimiere Sommer 2027“, „Preis-Jäger, Check für Sommer 2027“, „Prüfe den Backlog“ oder „Planer, Entwurf für <Reise>“. Es läuft nichts automatisch.
 
